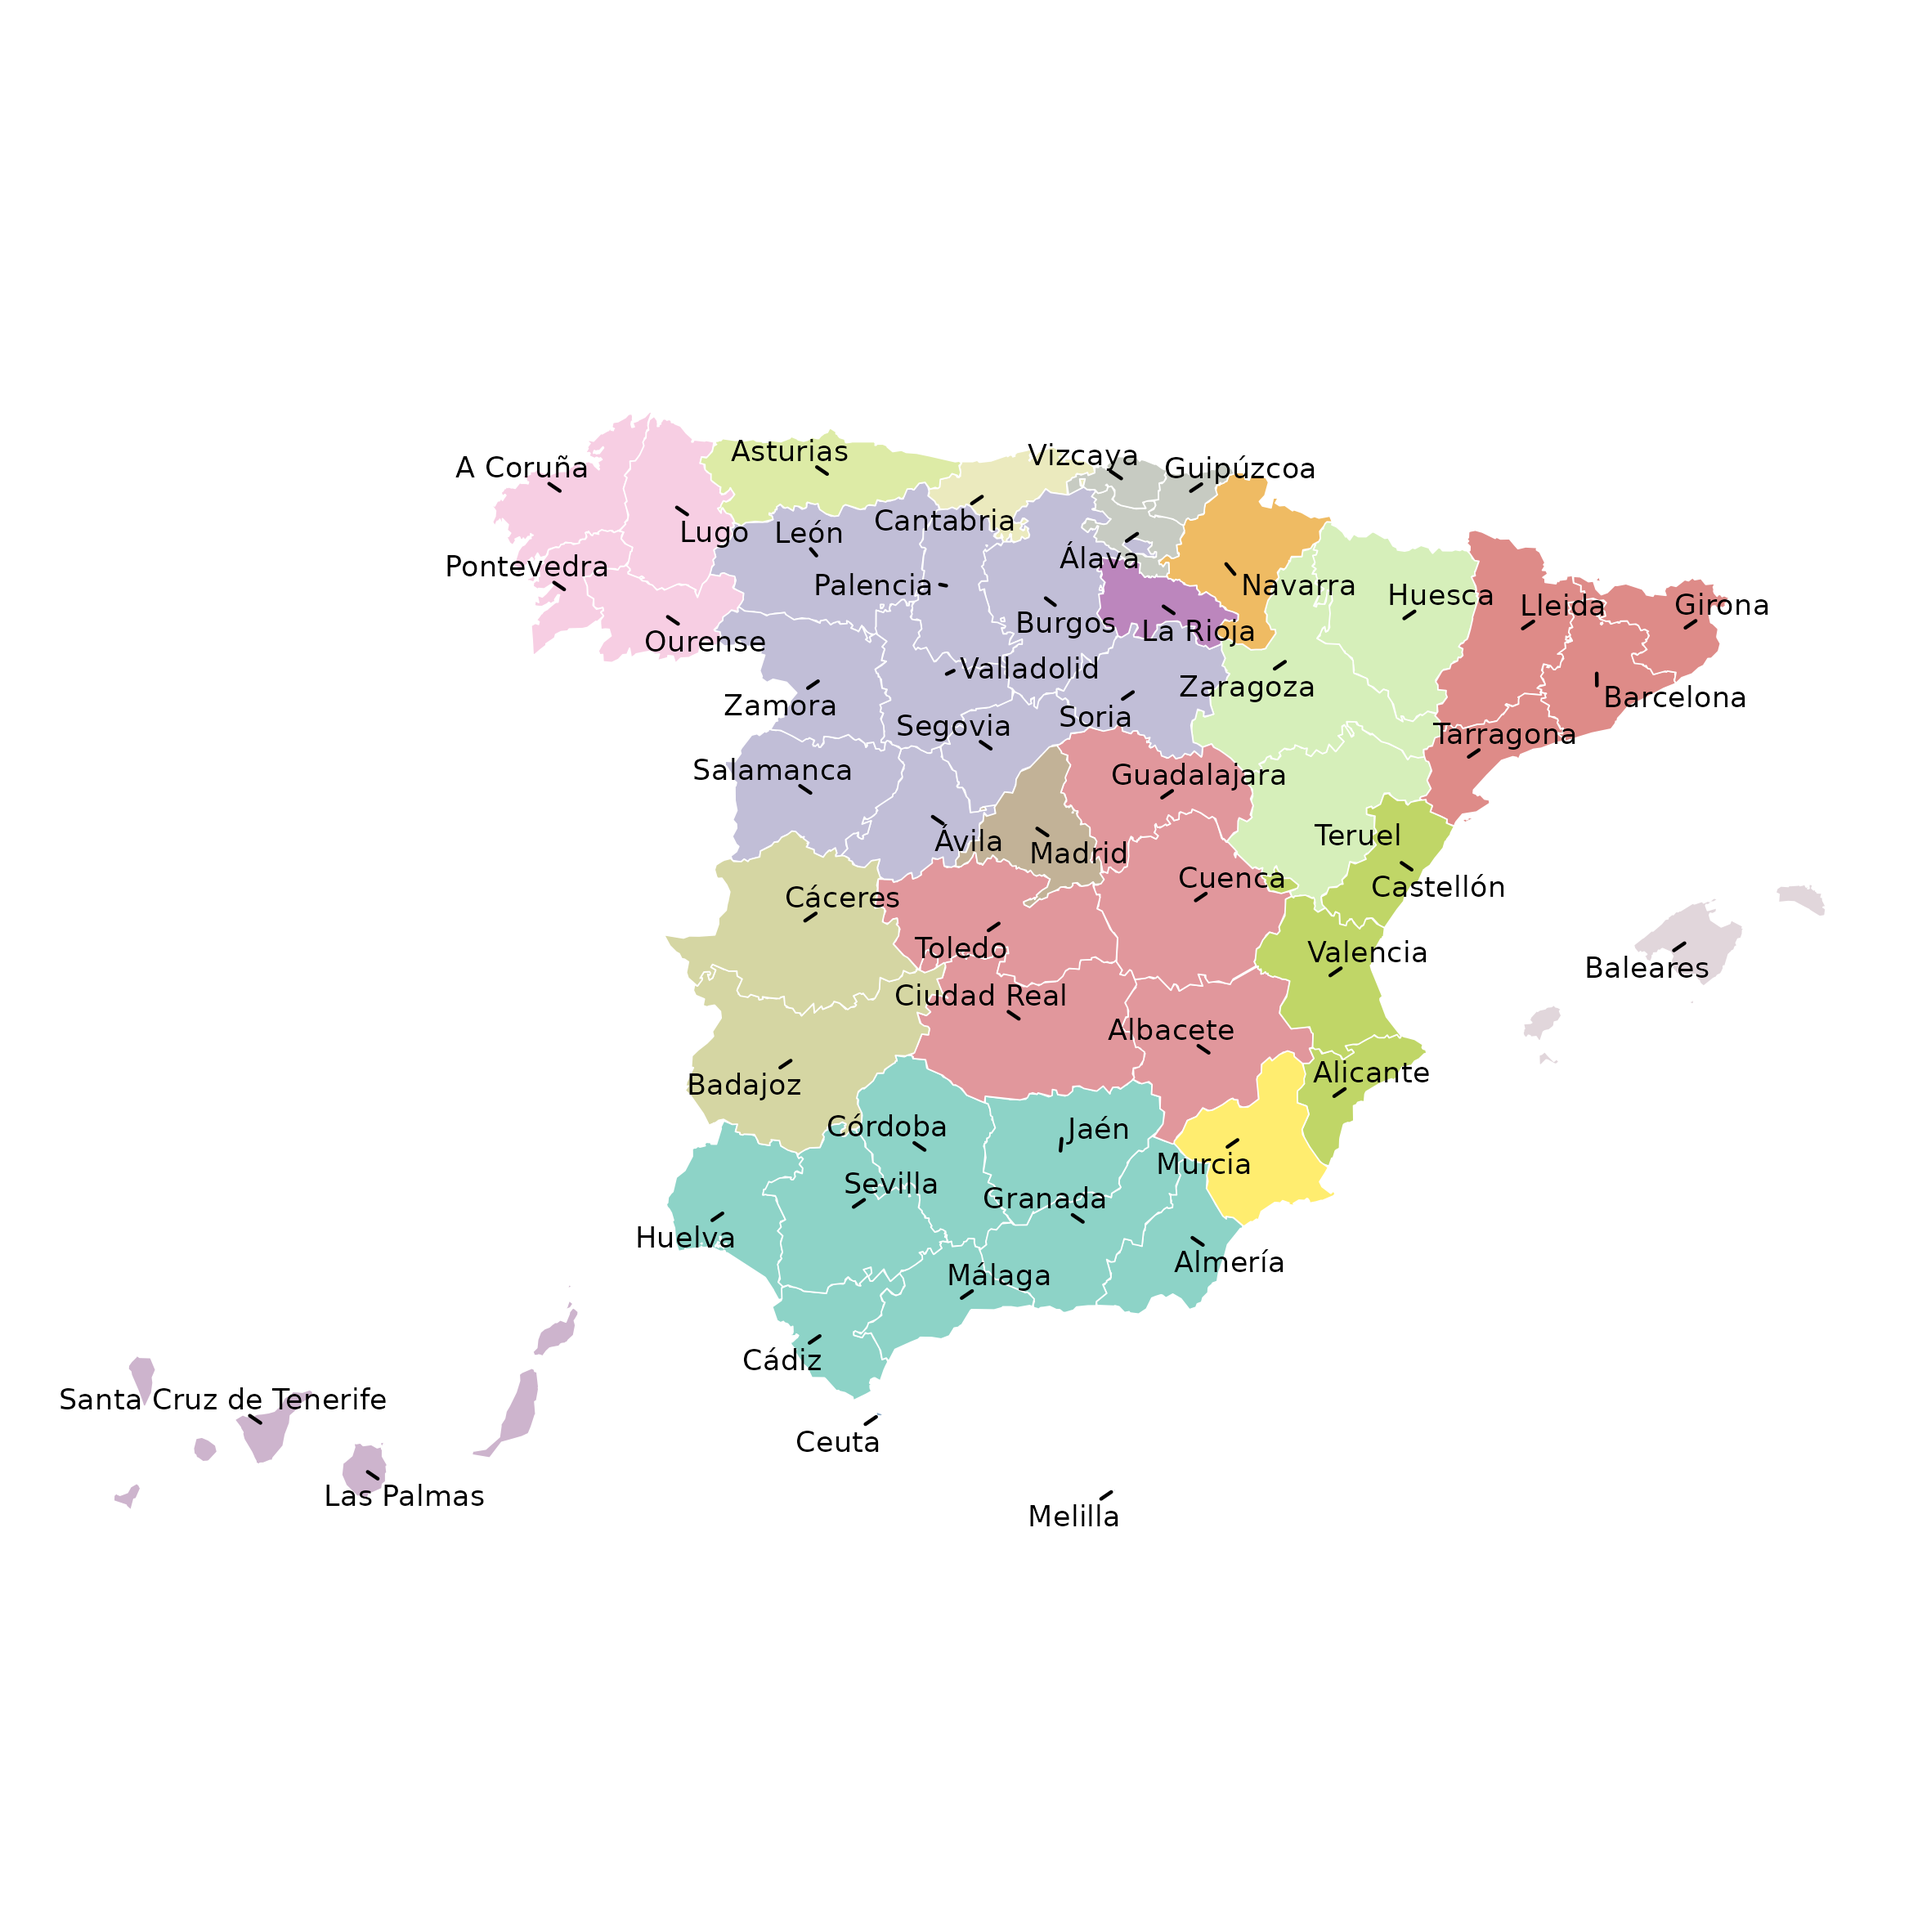
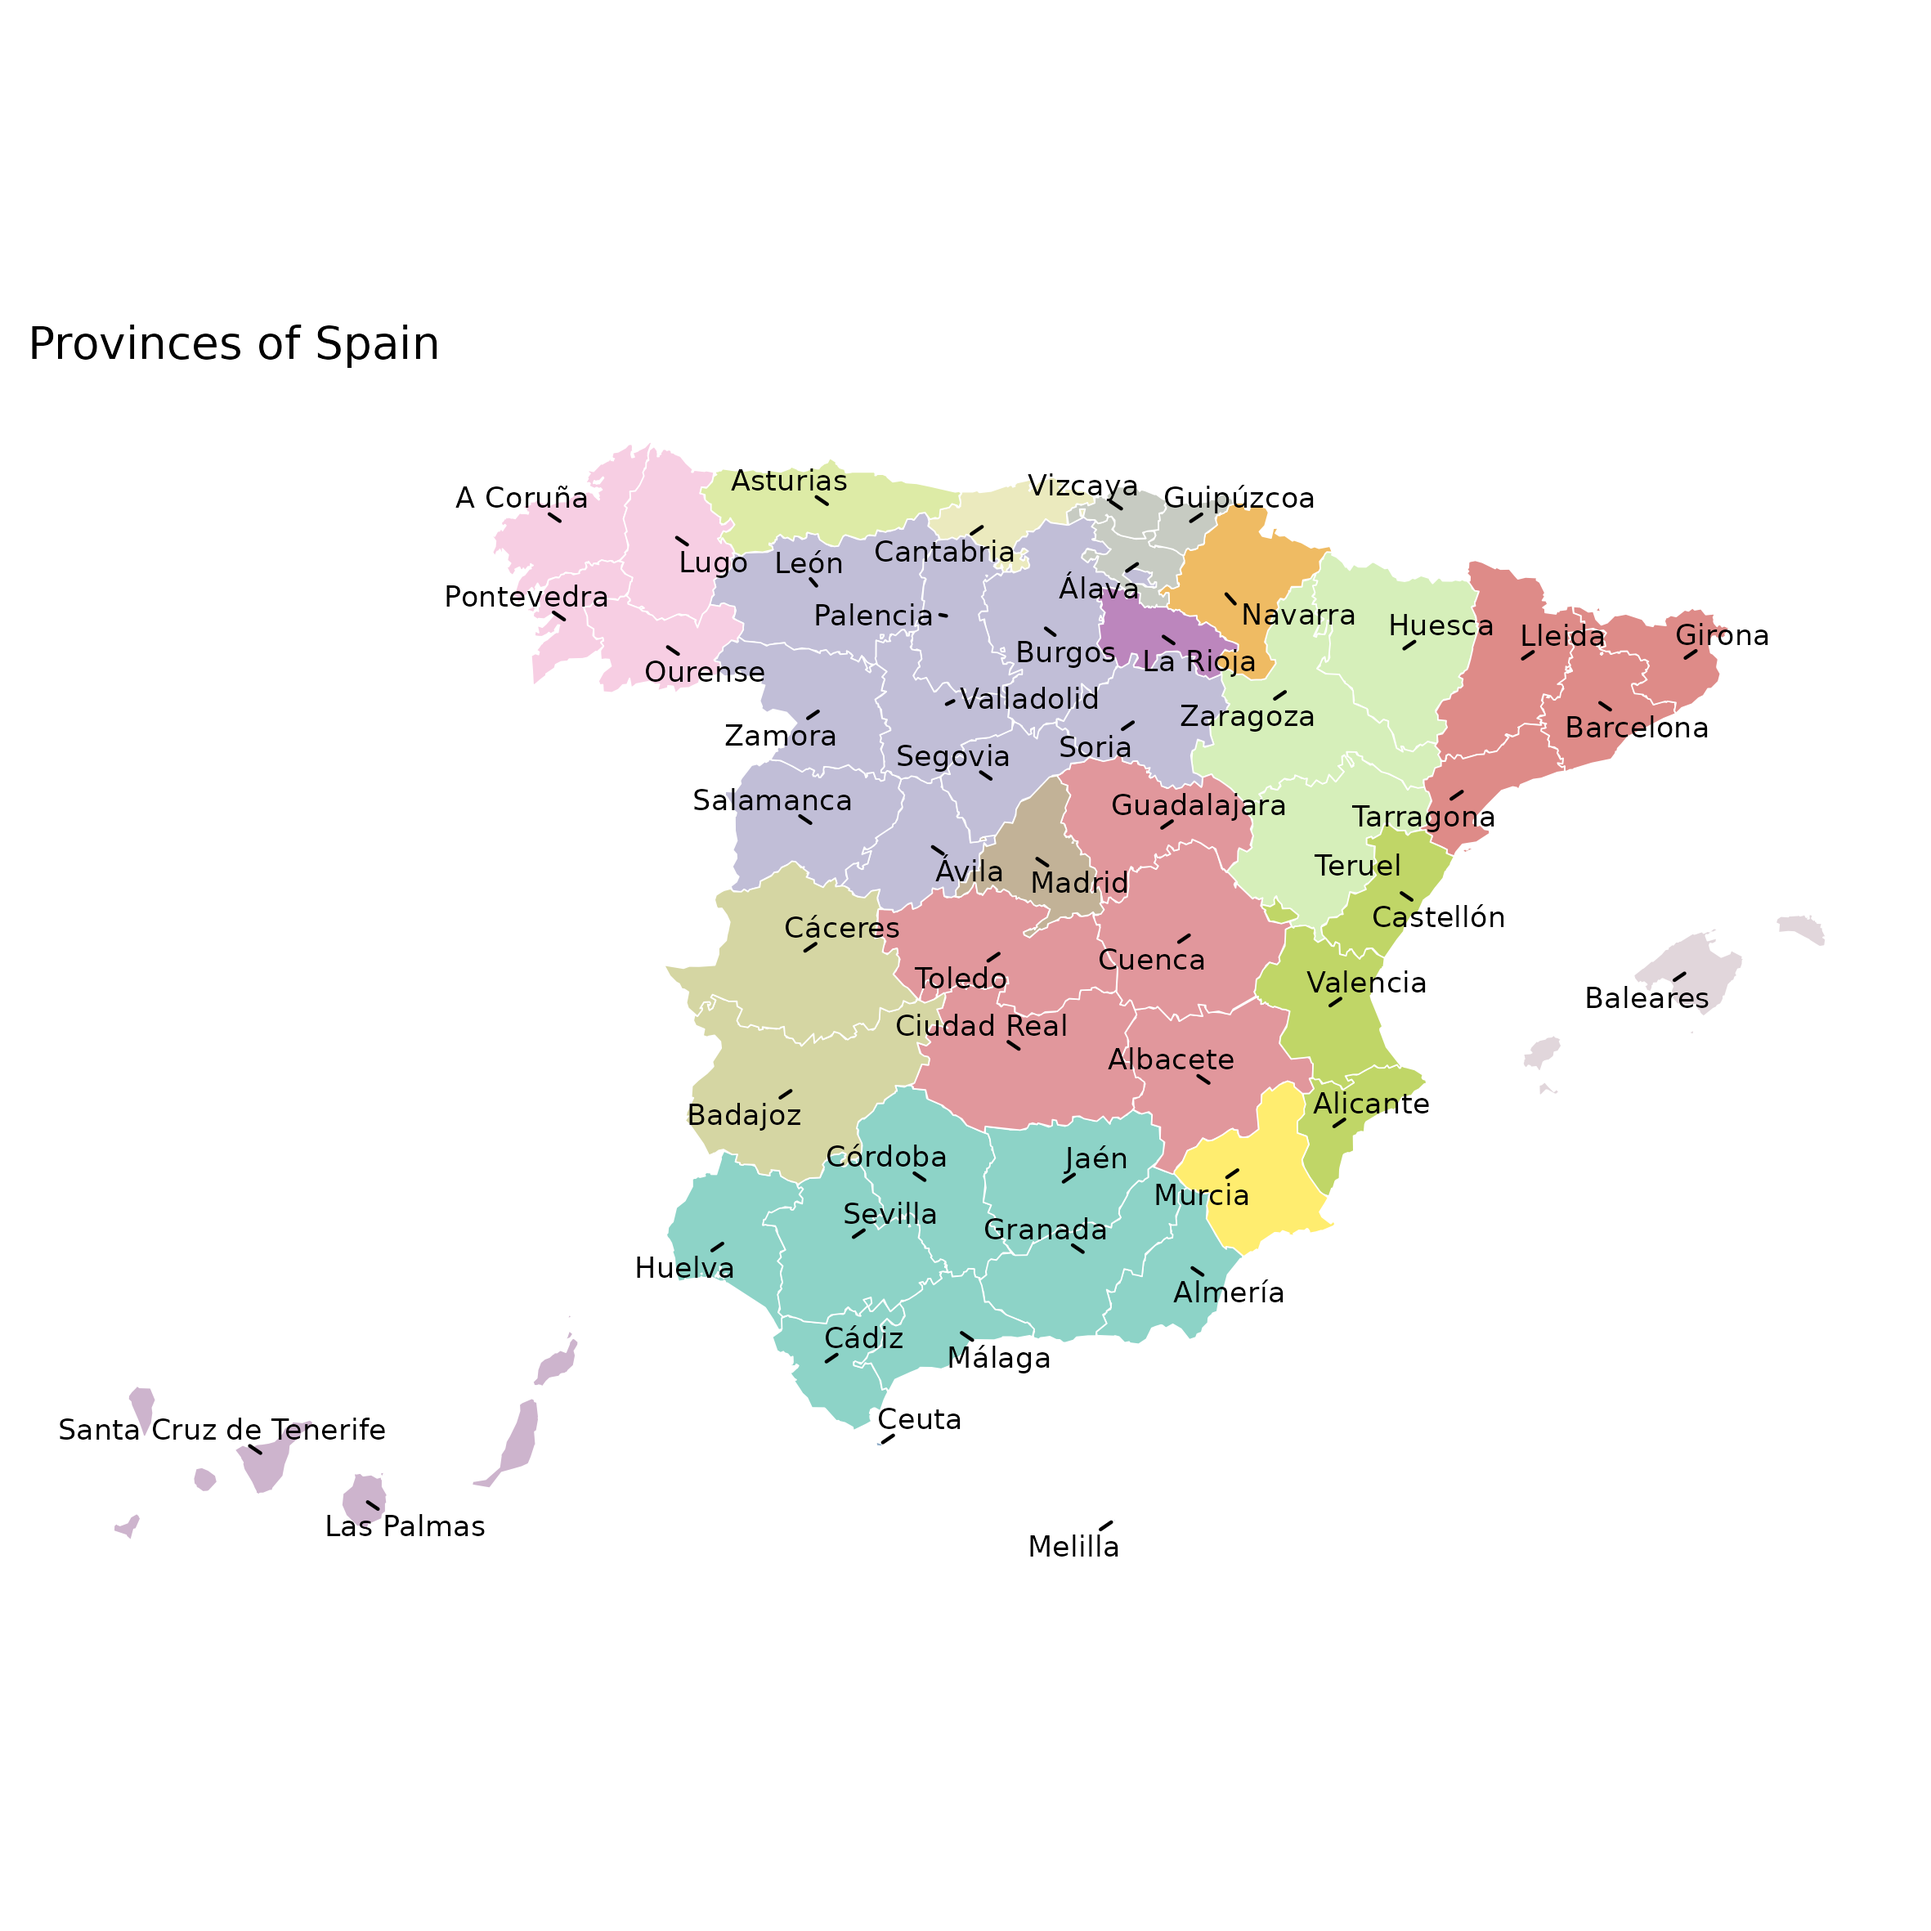
Update plot titles and change district color

diff --git a/Homework 6/notebook.html b/Homework 6/notebook.html
@@ -368,20 +368,9 @@ of the provinces. Your map should look similar to the one below. (NOTE:
 the instructor is a lazy guy and he used the default color palette from
 ggplot. Don’t be as lazy as the instructor,please.)</li>
 </ol>
-<pre class="r"><code>library(sf)</code></pre>
-<pre><code>## Linking to GEOS 3.10.2, GDAL 3.4.1, PROJ 8.2.1; sf_use_s2() is TRUE</code></pre>
-<pre class="r"><code>library(tidyverse)</code></pre>
-<pre><code>## ── Attaching core tidyverse packages ──────────────────────── tidyverse 2.0.0 ──
-## ✔ dplyr     1.1.4     ✔ readr     2.1.5
-## ✔ forcats   1.0.0     ✔ stringr   1.5.1
-## ✔ ggplot2   3.4.4     ✔ tibble    3.2.1
-## ✔ lubridate 1.9.3     ✔ tidyr     1.3.1
-## ✔ purrr     1.0.2</code></pre>
-<pre><code>## ── Conflicts ────────────────────────────────────────── tidyverse_conflicts() ──
-## ✖ dplyr::filter() masks stats::filter()
-## ✖ dplyr::lag()    masks stats::lag()
-## ℹ Use the conflicted package (&lt;http://conflicted.r-lib.org/&gt;) to force all conflicts to become errors</code></pre>
-<pre class="r"><code>library(ggrepel)
+<pre class="r"><code>library(sf)
+library(tidyverse)
+library(ggrepel)
 library(RColorBrewer)
 
 esp &lt;- read_sf(dsn = &quot;.&quot;, &quot;ESP_adm2&quot;)
@@ -417,7 +406,8 @@ plot &lt;- ggplot(data = esp_simply) +
         panel.grid.major = element_blank(), 
     panel.grid.minor = element_blank(),
     panel.background = element_rect(fill = &quot;white&quot;, color = NA) 
-        )
+        ) +
+    labs(title = &quot;Provinces of Spain&quot;)
 
 ggsave(&quot;plot1.png&quot;, plot, width = 20, height = 20, units = &quot;cm&quot;)</code></pre>
 <pre><code>## Warning in st_point_on_surface.sfc(sf::st_zm(x)): st_point_on_surface may not
@@ -477,7 +467,7 @@ color_palette &lt;- colorRampPalette(base_palette)(length(unique(BCN_districts$N
 map &lt;- ggplot() +
   geom_sf(data = BCN, aes(fill = NAME), color = &quot;white&quot;, lwd = 0.2) +
   scale_fill_manual(values = color_palette) +
-  geom_sf(data = BCN_districts, fill = NA, color = &quot;black&quot;, lwd = 0.5) +
+  geom_sf(data = BCN_districts, fill = NA, color = &quot;gray&quot;, lwd = 0.5) +
  geom_text_repel(data = BCN_districts, aes(label = NAME, geometry = centroid),
                   stat = &quot;sf_coordinates&quot;, size = 4, min.segment.length = 0, color = &quot;black&quot;,
                   bg.color = &quot;white&quot;, bg.r = 0.15) +
